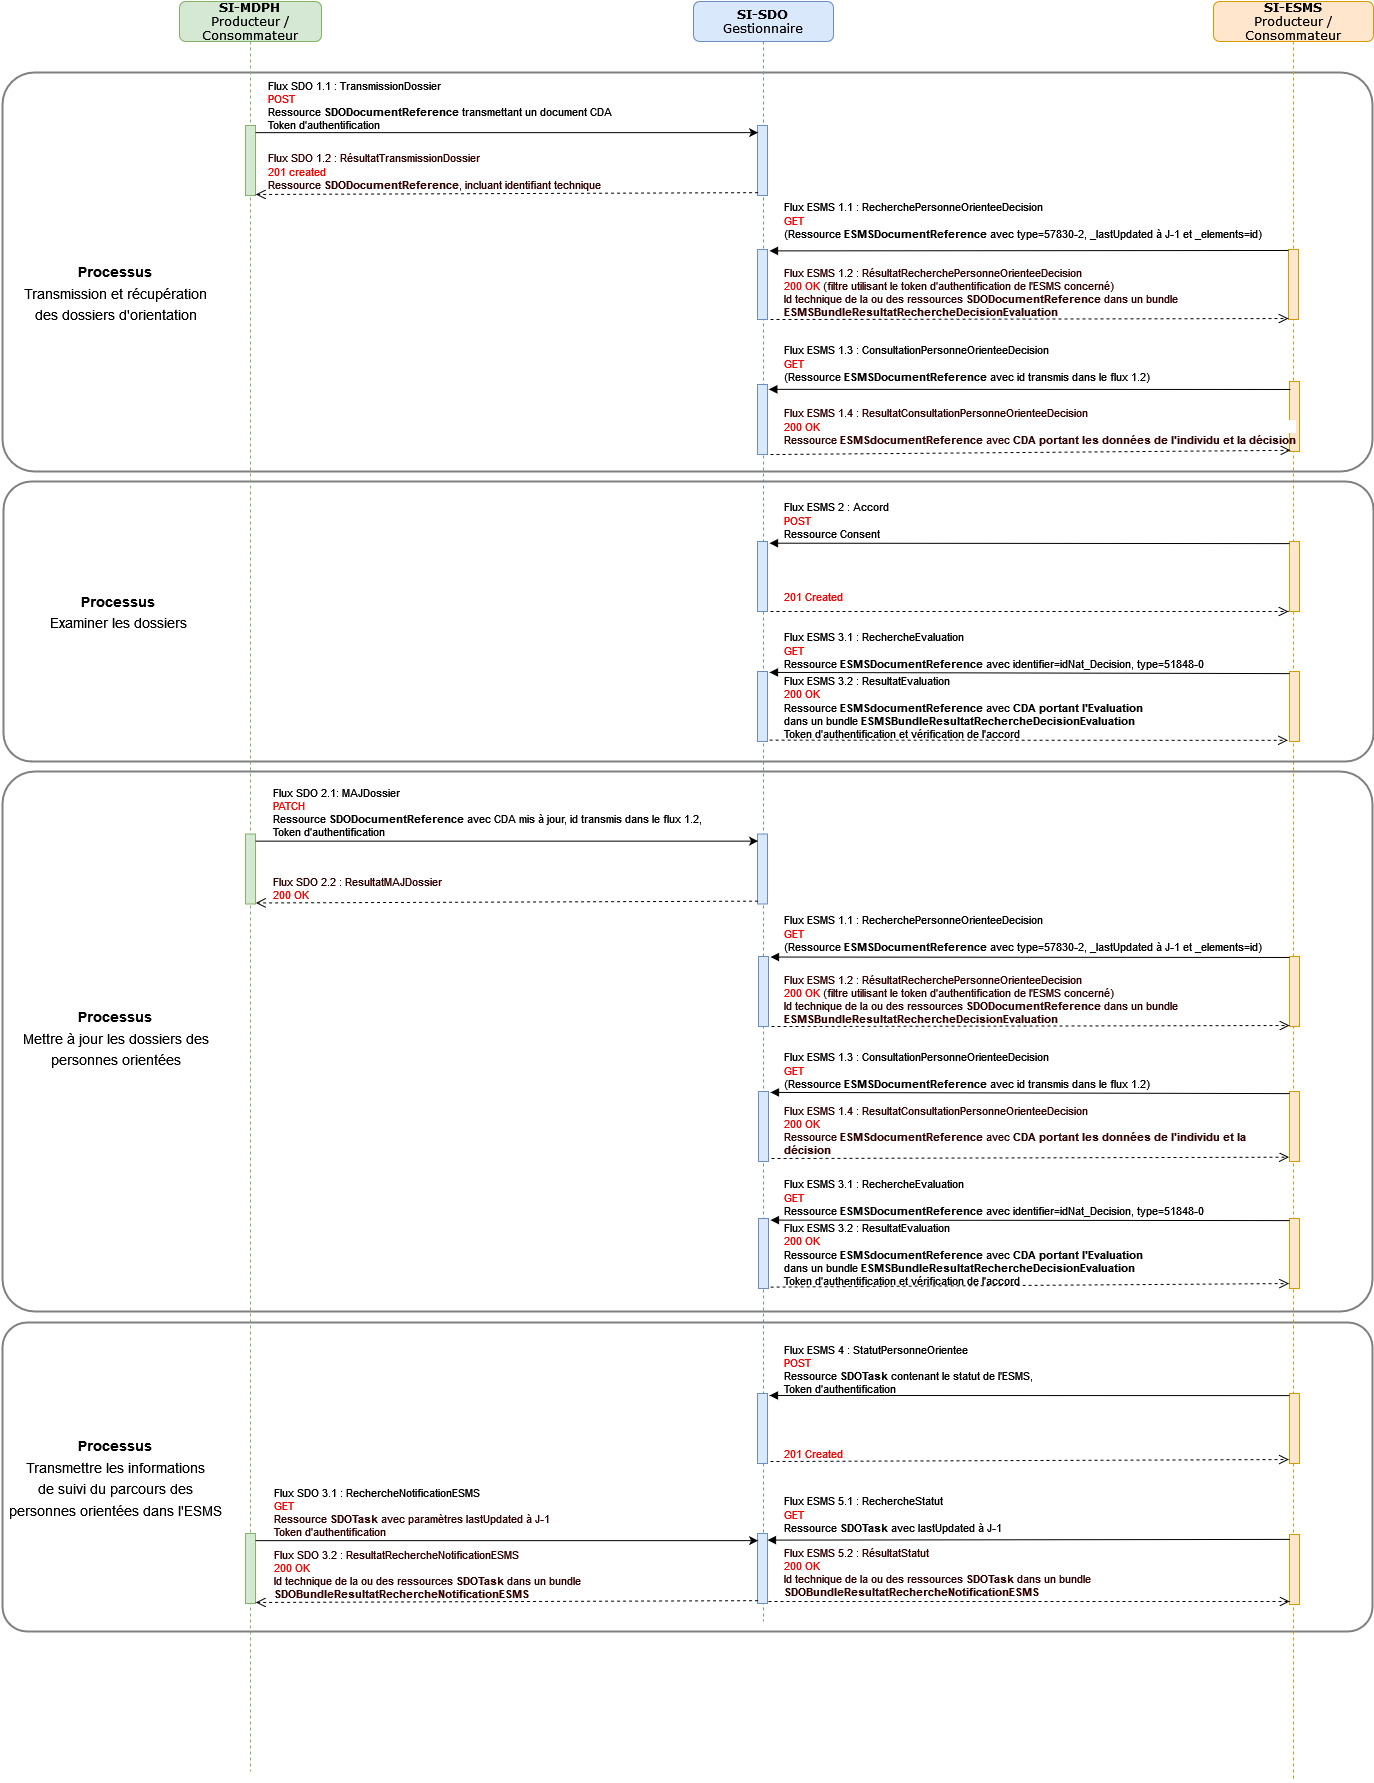
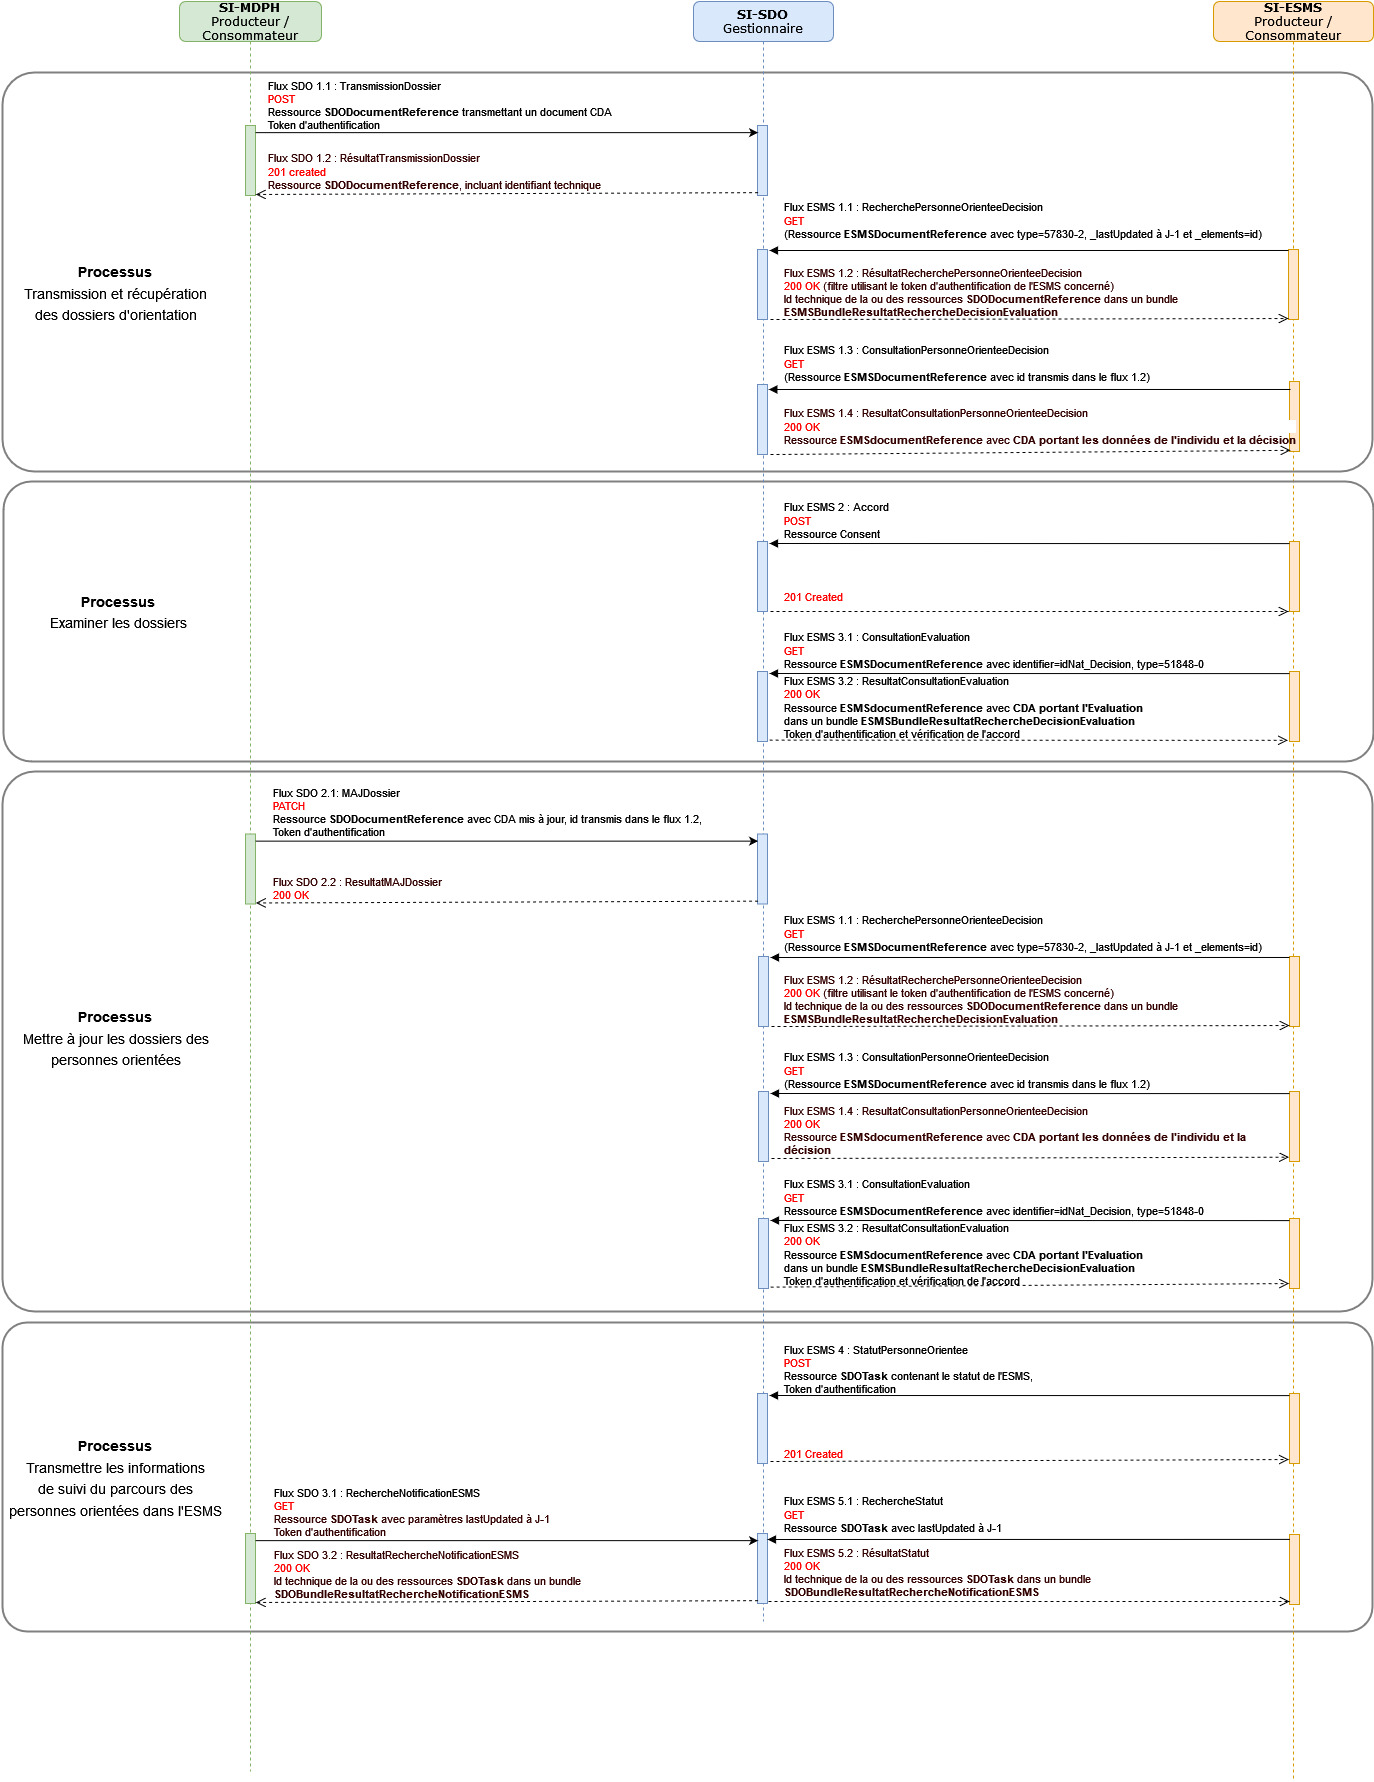
Fix issue
Modif nom du flux sur les différents diagrammes,
Modif des descriptions
Suppressions du paramètre _elements de la requêtre 3.1

diff --git a/input/pagecontent/st_flux3.md b/input/pagecontent/st_flux3.md
@@ -1,7 +1,7 @@
 
-### Flux 3.1 - RechercheEvaluation
+### Flux 3.1 - ConsultationEvaluation
 
-Ce flux permet à l’ESMS de rechercher les informations d’évaluation d’une personne orientée. Cette recherche est ainsi formulée par le SI-ESMS auprès du SI-SDO sur une décision précise précédemment reçue via le flux 1.4. 
+Ce flux permet à l’ESMS de consulter les informations d’évaluation d’une personne orientée. Cette recherche est ainsi formulée par le SI-ESMS auprès du SI-SDO sur une décision précise précédemment reçue via le flux 1.4. 
 
 ### diagramme de séquence 
 
@@ -69,9 +69,9 @@ Où
 -	[idNat-Decision] est l’identifiant technique national de la décision généré par le SI-SDO
 
 
-### Flux 3.2 - ResultatEvaluation
+### Flux 3.2 - ResultatConsultationEvaluation
 
-Ce flux contient le résultat de la recherche des informations d’évaluation d’une personne orientée. Cette réponse est retournée par le SI-SDO au SI-ESMS.
+Ce flux contient le résultat de la consultation des informations d’évaluation d’une personne orientée. Cette réponse est retournée par le SI-SDO au SI-ESMS.
 Il s’agit d’un flux qui permet de retourner la ressource « DocumentReference » répondant aux critères de recherche. La ressource est retournée uniquement si l’ESMS ayant effectué la requête est autorisé à accéder à ces informations. Le SI-SDO s’appuie sur les informations du token d’authentification pour effectuer cette vérification.
 
 

diff --git a/input/pagecontent/synthese_flux.md b/input/pagecontent/synthese_flux.md
@@ -51,7 +51,7 @@
             </td>
             <td style="width:489.05pt;border-top:none;border-left:none;border-bottom:solid gray 1.0pt;border-right:solid gray 1.0pt;padding:0cm 5.4pt 0cm 5.4pt;">
                     <ul>
-                        <li>Flux 3.1 &ndash; RechercheEvaluation / Flux 3.2 &ndash; ResultatRechercheEvaluation</li>
+                        <li>Flux 3.1 &ndash; ConsultationEvaluation / Flux 3.2 &ndash; ResultatConsultationEvaluation</li>
                             <ul>
                             <li>Op&eacute;ration &laquo;&nbsp;search&nbsp;&raquo; de l&rsquo;API FHIR assur&eacute;e par une requ&ecirc;te HTTP GET adressant la ressource DocumentReference.</li>
                             </ul> 
